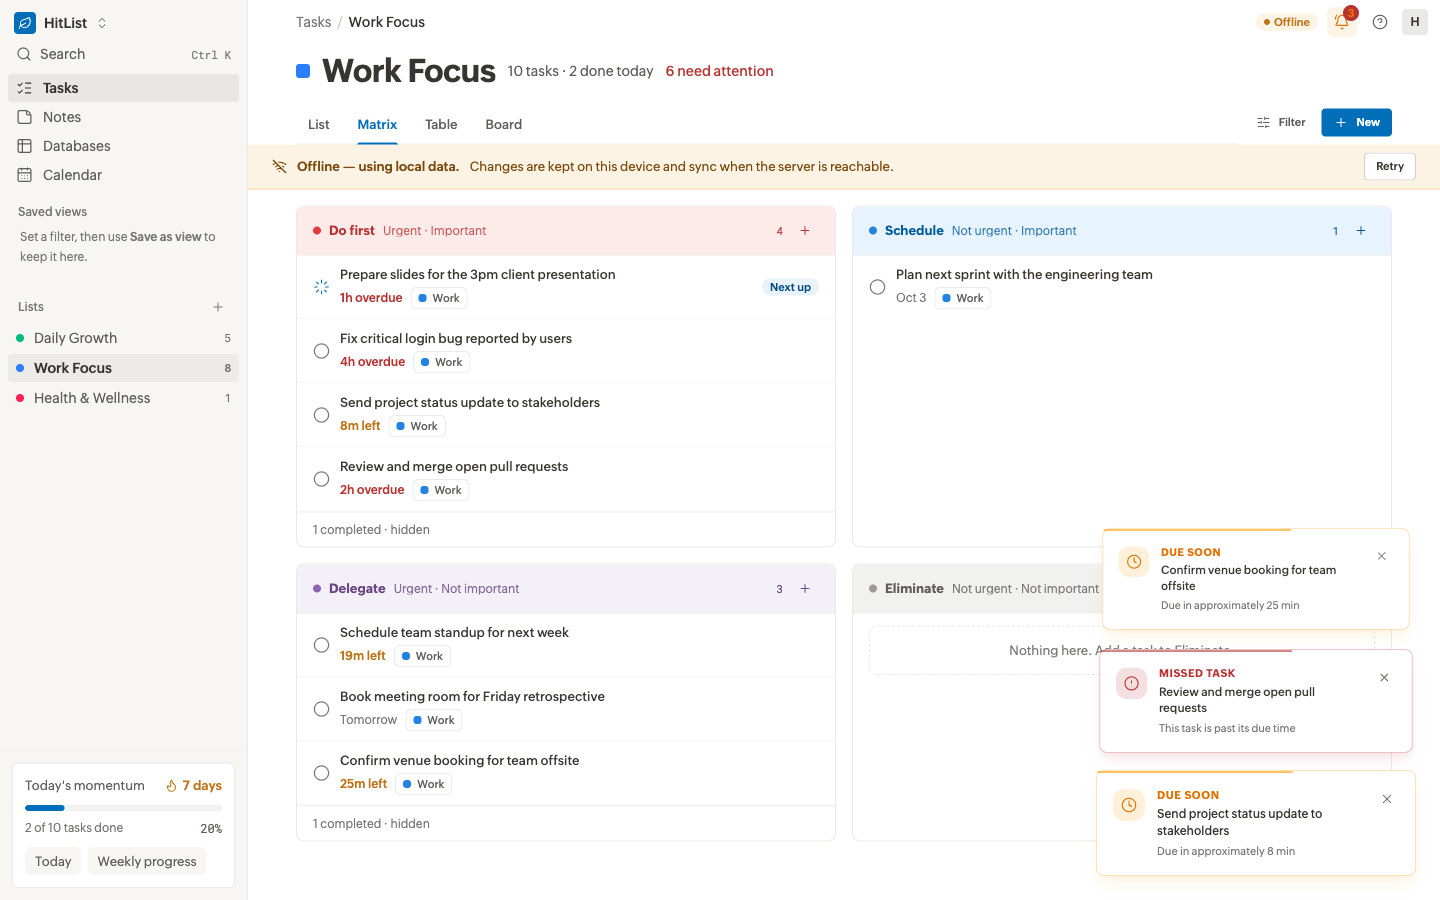
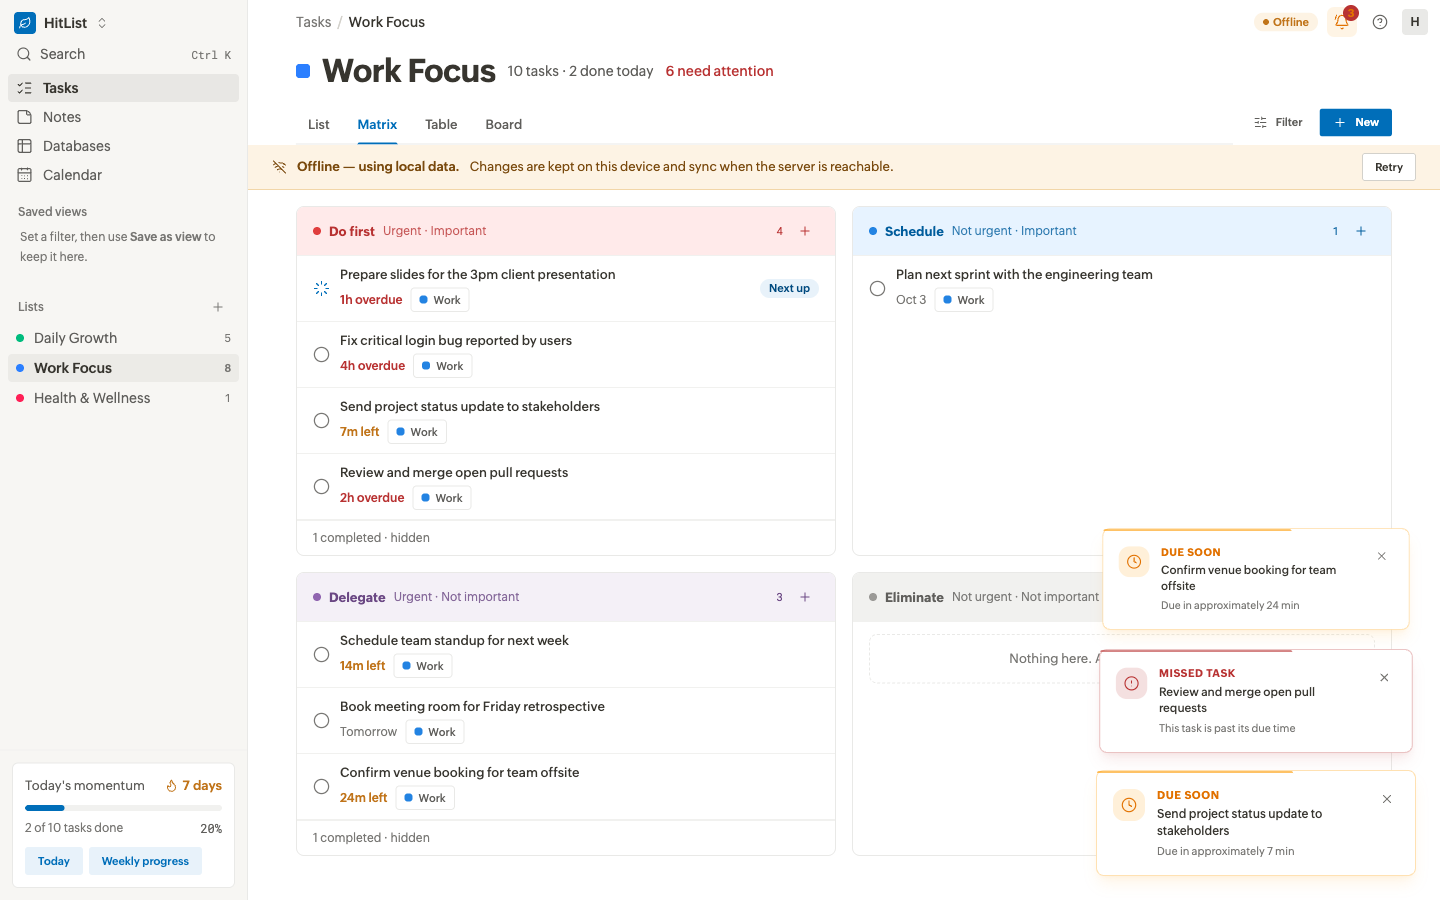
design(fidelity): DS radii and borders as the showcase actually renders them
The showcase re-declares --radius-sm/md/lg/xl as 3/4/6/8 over the DS's 4/6/8/12;
DS components render one step smaller than CONVENTIONS 4 assumed. Measured, then fixed:

- Buttons sm 3px / md 4px with a real 1px border (not an inset ring)
- Tags 4px with a real border; Badges get the 1px transparent border (19px tall)
- Table container 6px; "+" icon button 4px
- Momentum card buttons are the DS subtle variant (blue tint, 11px/600, 3px)
- Sidebar logo glyph 13px
- tools: the DOM dump records the enclosing box (radius, fill, border, size) and
  cmp.mjs diffs it, treating huge radii as "pill"
- 3A shot pairs regenerated; radius rules recorded in CONVENTIONS 12a

diff --git a/web/src/components/MatrixTaskCard.tsx b/web/src/components/MatrixTaskCard.tsx
@@ -36,7 +36,7 @@ interface MatrixTaskCardProps {
 }
 
 // DS Tag: 11px / 500, 3px 8px, 6px radius.
-const CHIP = 'inline-flex items-center gap-1.5 rounded-[6px] px-2 py-[3px] text-[11px] font-medium whitespace-nowrap';
+const CHIP = 'inline-flex items-center gap-1.5 rounded-[4px] border border-transparent px-2 py-[3px] text-[11px] font-medium whitespace-nowrap';
 
 const CARD_ACTION = cn(
   'flex size-[22px] items-center justify-center rounded-[6px] text-a-faint transition-[opacity,background-color,color] duration-[120ms]',
@@ -105,7 +105,7 @@ export function MatrixTaskCard({
           <span className={cn('size-2 flex-shrink-0 rounded-full', getQuadrantConfig(todo.quadrant).dotClass)} aria-hidden />
           {dueInfo && <span className={cn('whitespace-nowrap', DUE_TONE_CLASS[dueTone(dueInfo)])}>{dueInfo.label}</span>}
           {categoryConfig && (
-            <span className={cn(CHIP, 'text-a-muted shadow-[inset_0_0_0_1px_var(--a-line)]')}>
+            <span className={cn(CHIP, 'border-a-line text-a-muted')}>
               <span className={cn('size-2 flex-shrink-0 rounded-[3px]', categoryConfig.swatchClass)} aria-hidden />
               {categoryConfig.label}
             </span>
@@ -198,7 +198,7 @@ export function MatrixTaskCard({
           )}
 
           {categoryConfig && (
-            <span className={cn(CHIP, 'text-a-muted shadow-[inset_0_0_0_1px_var(--a-line)]')}>
+            <span className={cn(CHIP, 'border-a-line text-a-muted')}>
               <span className={cn('size-2 flex-shrink-0 rounded-[3px]', categoryConfig.swatchClass)} aria-hidden />
               {categoryConfig.label}
             </span>
@@ -212,7 +212,7 @@ export function MatrixTaskCard({
               onClick={() => onOpenNote!(todo.sourceNoteId!)}
               title="Open the note this came from"
               aria-label={`Open the note “${todo.text}” came from`}
-              className={cn(CHIP, 'text-a-muted shadow-[inset_0_0_0_1px_var(--a-line)] transition-colors duration-[120ms] hover:text-a-ink')}
+              className={cn(CHIP, 'border-a-line text-a-muted transition-colors duration-[120ms] hover:text-a-ink')}
             >
               <FileText className="size-3" strokeWidth={1.75} aria-hidden /> Note
             </button>

diff --git a/web/src/components/tasks/ViewTabs.tsx b/web/src/components/tasks/ViewTabs.tsx
@@ -68,12 +68,12 @@ export interface ViewTabsProps {
 }
 
 const TAB = cn(
-  // DS Tag (Tag.jsx): 11px / 500, 3px 8px, 1px border, 6px radius, 6px gap.
-  'inline-flex flex-shrink-0 items-center gap-1.5 rounded-[6px] px-2 py-[3px] text-[11px] font-medium whitespace-nowrap transition-colors duration-[120ms]',
+  // DS Tag (Tag.jsx): 11px / 500, 3px 8px, 1px border, 4px radius (showcase override), 6px gap.
+  'inline-flex flex-shrink-0 items-center gap-1.5 rounded-[4px] border px-2 py-[3px] text-[11px] font-medium whitespace-nowrap transition-colors duration-[120ms]',
 );
 // Selected: --color-primary-subtle fill, --blue-200 border, --blue-700 text.
-const TAB_ACTIVE = 'bg-a-blue-tint text-a-accent-700 shadow-[inset_0_0_0_1px_var(--a-blue-line)]';
-const TAB_IDLE = 'bg-a-surface text-a-muted shadow-[inset_0_0_0_1px_var(--a-line)] hover:bg-a-bg hover:shadow-[inset_0_0_0_1px_var(--a-faint)]';
+const TAB_ACTIVE = 'border-a-blue-line bg-a-blue-tint text-a-accent-700';
+const TAB_IDLE = 'border-a-line bg-a-surface text-a-muted hover:border-a-line-strong hover:bg-a-bg';
 
 export function ViewTabs({
   layout, views, appliedViewId, dirty, listId, listName, online, groupFields,
@@ -254,7 +254,7 @@ function NewViewButton({ layout, listName, groupFields, online, onCreate, onMana
       <PopoverTrigger asChild>
         <button
           type="button"
-          className="flex size-7 flex-shrink-0 items-center justify-center rounded-[6px] text-a-muted transition-colors duration-[120ms] hover:bg-a-line-soft hover:text-a-ink active:bg-a-line disabled:opacity-45"
+          className="flex size-7 flex-shrink-0 items-center justify-center rounded-[4px] text-a-muted transition-colors duration-[120ms] hover:bg-a-line-soft hover:text-a-ink active:bg-a-line disabled:opacity-45"
           aria-label="New view"
           disabled={!online}
           title={online ? 'Save current filters as a view' : 'Saved views need the server'}

diff --git a/web/src/components/shell/TopBar.tsx b/web/src/components/shell/TopBar.tsx
@@ -87,11 +87,12 @@ export function TopBar({ dotClass, title, subtitle, attention, tabs, actions }: 
 }
 
 /**
- * DS `Button` size sm (Button.jsx): 28px, 0 12px, 11px / 600, 4px radius, 8px gap.
+ * DS `Button` size sm (Button.jsx): 28px, 0 12px, 11px / 600, 3px radius (the showcase
+ * shifts the DS radii down: sm 3, md 4, lg 6, xl 8 — line 28), 8px gap.
  * Three variants used in page chrome: ghost (Filter), primary (New), secondary
  * (Columns, Fields, Retry). Anything bigger composes these with BTN_MD.
  */
-const BTN_SM = 'flex h-7 flex-shrink-0 items-center gap-2 rounded-[4px] px-3 text-[11px] font-semibold whitespace-nowrap transition-colors duration-[120ms] active:translate-y-[0.5px]';
+const BTN_SM = 'flex h-7 flex-shrink-0 items-center gap-2 rounded-[3px] border border-transparent px-3 text-[11px] font-semibold whitespace-nowrap transition-colors duration-[120ms] active:translate-y-[0.5px]';
 
 export const topBarPill = cn(
   BTN_SM, 'text-a-muted hover:bg-a-line-soft active:bg-a-line data-[state=open]:bg-a-line-soft',
@@ -102,11 +103,11 @@ export const topBarPrimary = cn(
 );
 
 export const topBarSecondary = cn(
-  BTN_SM, 'bg-a-surface text-a-ink shadow-[inset_0_0_0_1px_var(--a-line-strong)] hover:bg-a-bg active:bg-a-line-soft',
+  BTN_SM, 'border-a-line-strong bg-a-surface text-a-ink hover:bg-a-bg active:bg-a-line-soft',
 );
 
-/** DS `Button` size md, to override a size-sm variant: 34px, 0 16px, 13px, 6px radius. */
-export const BTN_MD = 'h-[34px] rounded-[6px] px-4 text-[13px]';
+/** DS `Button` size md, to override a size-sm variant: 34px, 0 16px, 13px, 4px radius. */
+export const BTN_MD = 'h-[34px] rounded-[4px] px-4 text-[13px]';
 
 interface TopBarToggleProps<T extends string> {
   label: string;

diff --git a/web/src/components/tasks/TaskRow.tsx b/web/src/components/tasks/TaskRow.tsx
@@ -45,7 +45,7 @@ export interface TaskRowProps {
 }
 
 // DS Tag: 11px / 500, 3px 8px, 6px radius.
-const CHIP = 'inline-flex items-center gap-1.5 rounded-[6px] px-2 py-[3px] text-[11px] font-medium whitespace-nowrap';
+const CHIP = 'inline-flex items-center gap-1.5 rounded-[4px] border border-transparent px-2 py-[3px] text-[11px] font-medium whitespace-nowrap';
 
 // Overlaid on the row's right edge, not in the flow: the design's due column is
 // flush right (showcase 238) and this appears only on hover.
@@ -137,7 +137,7 @@ export function TaskRow({
 
       {isNext && !isDone && (
         // design-check-ignore: pill — the DS Badge is a pill (showcase 235).
-        <span className="flex-shrink-0 rounded-full bg-a-blue-tint px-2 py-[3px] text-[11px] font-semibold leading-none text-a-accent-700">
+        <span className="flex-shrink-0 rounded-full border border-transparent bg-a-blue-tint px-2 py-[3px] text-[11px] font-semibold leading-none text-a-accent-700">
           Next up
         </span>
       )}
@@ -155,7 +155,7 @@ export function TaskRow({
       )}
 
       {category && (
-        <span className={cn(CHIP, 'flex-shrink-0 text-a-muted shadow-[inset_0_0_0_1px_var(--a-line)]')}>
+        <span className={cn(CHIP, 'flex-shrink-0 border-a-line text-a-muted')}>
           <span className={cn('size-2 flex-shrink-0 rounded-[3px]', category.swatchClass)} aria-hidden />
           {category.label}
         </span>

diff --git a/web/src/components/MomentumBar.tsx b/web/src/components/MomentumBar.tsx
@@ -64,7 +64,7 @@ export function MomentumBar({ stats, total, done, onViewHistory, onViewProgress 
           <button
             type="button"
             onClick={onViewHistory}
-            className="flex h-7 items-center whitespace-nowrap rounded-[6px] bg-a-bg px-2.5 text-[13px] text-a-muted transition-colors duration-[120ms] hover:bg-a-surface-2 hover:text-a-ink"
+            className="flex h-7 items-center whitespace-nowrap rounded-[3px] border border-transparent bg-a-blue-tint px-3 text-[11px] font-semibold text-a-accent transition-colors duration-[120ms] hover:bg-a-blue-hover active:bg-a-blue-line"
           >
             Today
           </button>
@@ -73,7 +73,7 @@ export function MomentumBar({ stats, total, done, onViewHistory, onViewProgress 
           <button
             type="button"
             onClick={onViewProgress}
-            className="flex h-7 items-center whitespace-nowrap rounded-[6px] bg-a-bg px-2.5 text-[13px] text-a-muted transition-colors duration-[120ms] hover:bg-a-surface-2 hover:text-a-ink"
+            className="flex h-7 items-center whitespace-nowrap rounded-[3px] border border-transparent bg-a-blue-tint px-3 text-[11px] font-semibold text-a-accent transition-colors duration-[120ms] hover:bg-a-blue-hover active:bg-a-blue-line"
           >
             Weekly progress
           </button>

diff --git a/web/src/components/EisenhowerMatrix.tsx b/web/src/components/EisenhowerMatrix.tsx
@@ -215,7 +215,7 @@ function MatrixRow({ todo, isNext, index, onStatusChange, onDelete, onOpen, onOp
 
       {isNext && !isDone && (
         // design-check-ignore: pill — the DS Badge is a pill (showcase 210).
-        <span className="flex-shrink-0 rounded-full bg-a-blue-tint px-2 py-[3px] text-[11px] font-semibold leading-none text-a-accent-700">
+        <span className="flex-shrink-0 rounded-full border border-transparent bg-a-blue-tint px-2 py-[3px] text-[11px] font-semibold leading-none text-a-accent-700">
           Next up
         </span>
       )}
@@ -225,7 +225,7 @@ function MatrixRow({ todo, isNext, index, onStatusChange, onDelete, onOpen, onOp
 
 function CategoryTag({ category }: { category: NonNullable<ReturnType<typeof getCategoryConfig>> }) {
   return (
-    <span className="inline-flex items-center gap-1.5 rounded-[6px] bg-a-surface px-2 py-[3px] text-[11px] font-medium text-a-muted shadow-[inset_0_0_0_1px_var(--a-line)]">
+    <span className="inline-flex items-center gap-1.5 rounded-[4px] border border-a-line bg-a-surface px-2 py-[3px] text-[11px] font-medium text-a-muted">
       <span className={cn('size-2 flex-shrink-0 rounded-[3px]', category.swatchClass)} aria-hidden />
       {category.label}
     </span>

diff --git a/web/src/index.css b/web/src/index.css
@@ -132,6 +132,7 @@
     --color-a-amber: var(--a-amber);
     --color-a-blue-tint: var(--a-blue-tint);
     --color-a-blue-line: var(--a-blue-line);
+    --color-a-blue-hover: var(--a-blue-hover);
     --color-a-green-tint: var(--a-green-tint);
     --color-a-green-ink: var(--a-green-ink);
     --color-a-red-line: var(--a-red-line);
@@ -593,6 +594,7 @@ html.login-locked body {
   /* DS --blue-50 / --blue-200: a selected Tag's fill and border. */
   --a-blue-tint: #e8f2fa;
   --a-blue-line: #8fbfe1;
+  --a-blue-hover: #c6def0; /* DS --blue-100: the subtle button's hover */
   /* DS Badge tones: green-50/600, red-50/600 (amber-50/600 above). */
   --a-green-tint: #e6f5ee;
   --a-green-ink: #178049;
@@ -776,6 +778,7 @@ html.login-locked body {
   --a-amber-tint: rgba(232, 145, 42, 0.14);
   --a-blue-tint: rgba(217, 133, 82, 0.14);
   --a-blue-line: rgba(217, 133, 82, 0.5);
+  --a-blue-hover: rgba(217, 133, 82, 0.24);
   --a-green-tint: rgba(31, 164, 94, 0.16);
   --a-green-ink: #7fd6a6;
   --a-red-tint: rgba(229, 72, 77, 0.16);

diff --git a/web/src/components/shell/AppHeader.tsx b/web/src/components/shell/AppHeader.tsx
@@ -59,7 +59,7 @@ export function AppHeader({ crumb1, crumb2, sync, bell, account, onOpenSidebar }
       <div className="flex-1" />
 
       {/* design-check-ignore: pill — the DS Badge is a pill; showcase 111 uses it for sync. */}
-      <span className={cn('flex flex-shrink-0 items-center gap-1 rounded-full px-2 py-[3px] text-[11px] font-semibold leading-none', SYNC_TONE_CLASS[sync.tone].pill)}>
+      <span className={cn('flex flex-shrink-0 items-center gap-1 rounded-full border border-transparent px-2 py-[3px] text-[11px] font-semibold leading-none', SYNC_TONE_CLASS[sync.tone].pill)}>
         <span className={cn('size-[6px] rounded-full', SYNC_TONE_CLASS[sync.tone].dot)} aria-hidden />
         {sync.label}
       </span>

diff --git a/web/src/components/shell/Sidebar.tsx b/web/src/components/shell/Sidebar.tsx
@@ -84,7 +84,7 @@ function SidebarBody({ activeView, onViewChange, counts, context, contextFoot }:
       {/* Logo / workspace row */}
       <div className="flex flex-shrink-0 items-center gap-2 px-3.5 pt-3 pb-1.5">
         <span className="flex size-[22px] flex-shrink-0 items-center justify-center rounded-[4px] bg-a-accent" aria-hidden>
-          <Leaf className="size-3.5 text-white" strokeWidth={1.75} />
+          <Leaf className="size-[13px] text-white" strokeWidth={1.75} />
         </span>
         <span className="text-[14px] font-semibold text-a-ink">HitList</span>
         <ChevronsUpDown className="size-3.5 text-a-faint" strokeWidth={1.75} />

diff --git a/web/src/components/tasks/TaskTableView.tsx b/web/src/components/tasks/TaskTableView.tsx
@@ -180,7 +180,7 @@ export function TaskTableView({
 
   return (
     <div className="animate-fade-in">
-    <div className="max-h-[calc(100vh-260px)] w-full overflow-auto rounded-[8px] border border-a-line bg-a-surface">
+    <div className="max-h-[calc(100vh-260px)] w-full overflow-auto rounded-[6px] border border-a-line bg-a-surface">
       <table className="w-full min-w-max border-separate border-spacing-0 text-[13px]">
         <thead>
           <tr>

diff --git a/docs/design-migration/CONVENTIONS.md b/docs/design-migration/CONVENTIONS.md
@@ -420,23 +420,32 @@ been declared in `ViewDisplay` and left unused since it was written.
 
 ### Measured corrections to the foundations (found by `tools/cmp.mjs`)
 
+**Radii are one step smaller than §4 says, for DS components.** The showcase re-declares
+`--radius-sm/md/lg/xl` as **3 / 4 / 6 / 8px** (line 28) on top of the DS's 4 / 6 / 8 / 12, and
+every DS component reads those. Measured in the prototype: sm **Button 3px**, md Button
+(34px) **4px**, **Tag 4px**, IconButton 4px, Badge pill (with a 1px border, so 19px
+tall), DS Table container 6px. Hand-written markup in the showcase (panels, popovers,
+sidebar rows) uses literal px and is unaffected. DS controls also carry a real 1px border
+(transparent, `--border-strong` or `--border-default`), which is part of their box — don't
+fake it with an inset shadow or the control comes out 2px small.
+
 These were wrong at the source and every screen inherited them.
 
 - **Text colours.** `--a-muted` is now `#5f5e5b` (`--text-secondary`) and `--a-faint`
   `#787774` (`--text-tertiary`); they were `#6f6e69` and `#9b9a97` (`--gray-400`, an icon
   grey). Plain due dates, captions, counts and placeholders all use the faint one.
 - **DS `Button` sm** — what every page-header control is: 28px tall, `0 12px`, **11px /
-  600**, 8px gap, **4px radius** (md: 34px, `0 16px`, 13px, 6px). Variants: primary
+  600**, 8px gap, **3px radius**, 1px border (md: 34px, `0 16px`, 13px, 4px). Variants: primary
   (`#006eb9`), secondary (white, `--border-strong` ring, ink), ghost (transparent,
   secondary ink, `--gray-100` hover). `topBarPrimary / topBarSecondary / topBarPill` in
   `TopBar.tsx` are these; `BTN_MD` is the md override.
 - **DS `Tabs`**: 13px, 500 (selected 600, brand), `12px` padding, 4px gap, a 1px
   `--border-default` rule under the row and a 2px brand rule inset 12px on the selected tab.
   The page header puts **8px** between the title row and the tab row.
-- **DS `Tag`**: 11px / 500, `3px 8px`, 1px border, 6px radius, 6px gap, an 8px swatch.
+- **DS `Tag`**: 11px / 500, `3px 8px`, 1px border, **4px** radius, 6px gap, an 8px swatch.
   Selected: `--blue-50` fill, `--blue-200` border, `--blue-700` text. Used for the
   saved-view chips and every category chip.
-- **DS `Badge`**: 11px / 600, `3px 8px`, pill, 6px dot in the ink. Sync pill
+- **DS `Badge`**: 11px / 600, `3px 8px`, pill, 1px transparent border, 6px dot in the ink. Sync pill
   (green-50/600, amber-50/600, red-50/600) and "Next up" (blue-50/700).
 - **Quadrant and category colours are the showcase's literals** (lines 1224–1227), with a
   separate dot colour per quadrant: Do `#b83232 / #ffeaea / #e03e3e`, Schedule
@@ -446,7 +455,7 @@ These were wrong at the source and every screen inherited them.
   still bans it as a brand colour — see the two `design-check-ignore` lines in `index.css`.)
 - **DS `Table`** (tasks table): a bordered 8px container; sticky `--gray-50` header whose
   cells are glyph + 13px/600 name over an 11px tertiary type label (`text`, `date`,
-  `select`…); a 44px `#` gutter (`--gray-100` head, `--gray-25` cells, row numbers 13px ink);
+  `select`…); a 44px `#` gutter (`--gray-100` head, `--gray-25` cells, row numbers 13px ink); container radius 6px;
   cells 13px, hairline rows, hover `--gray-25`; overdue due cells use the DS "invalid" cell
   (`red-50` fill, `red-600` ink, 2px `red-500` left bar); empty cells read `—` in italic
   tertiary; number columns are right-aligned mono 11px. The frozen title column is white,
